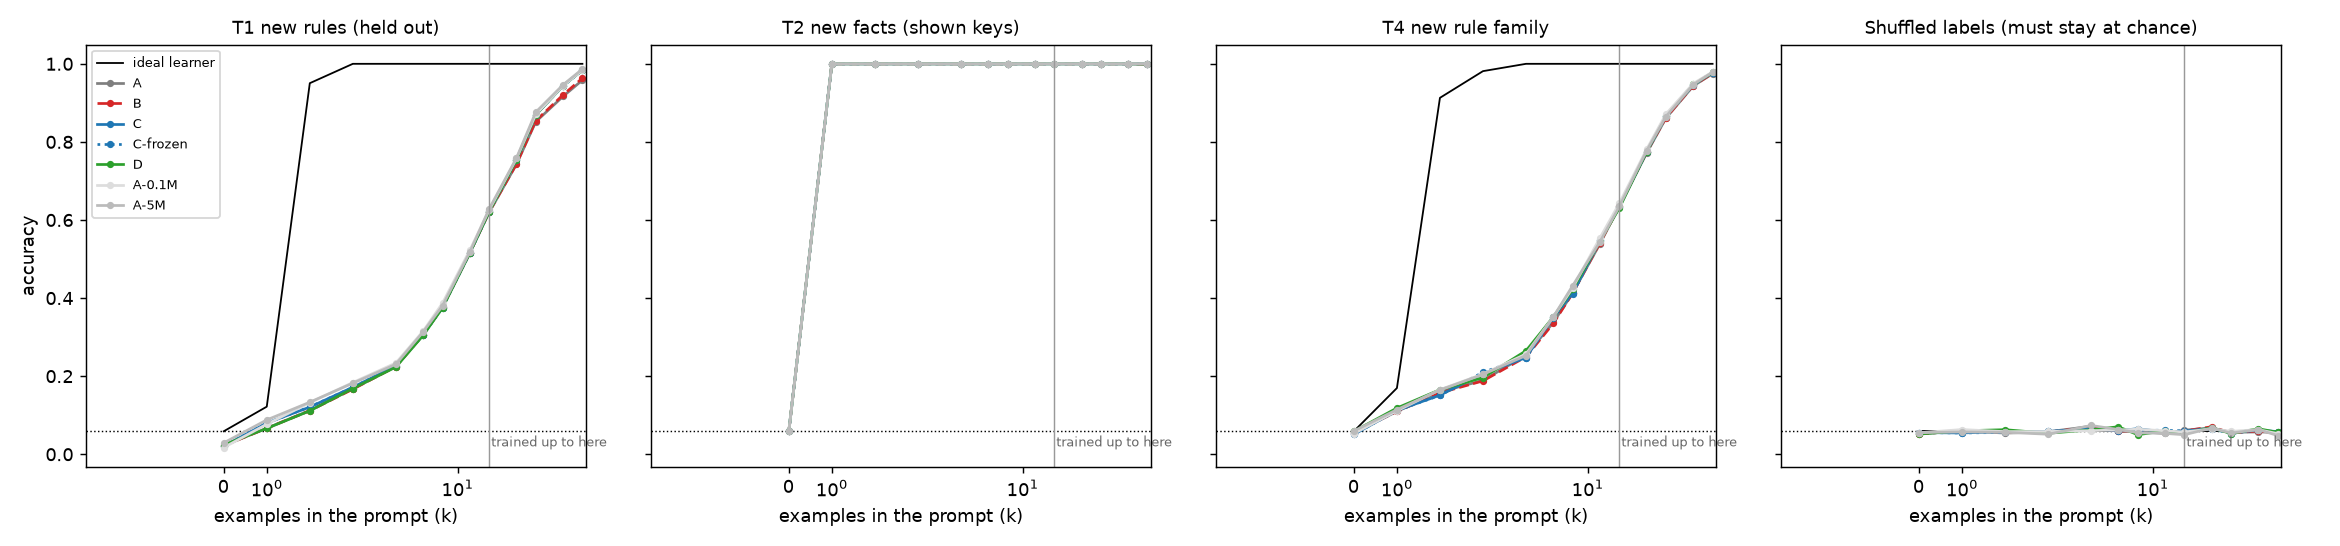
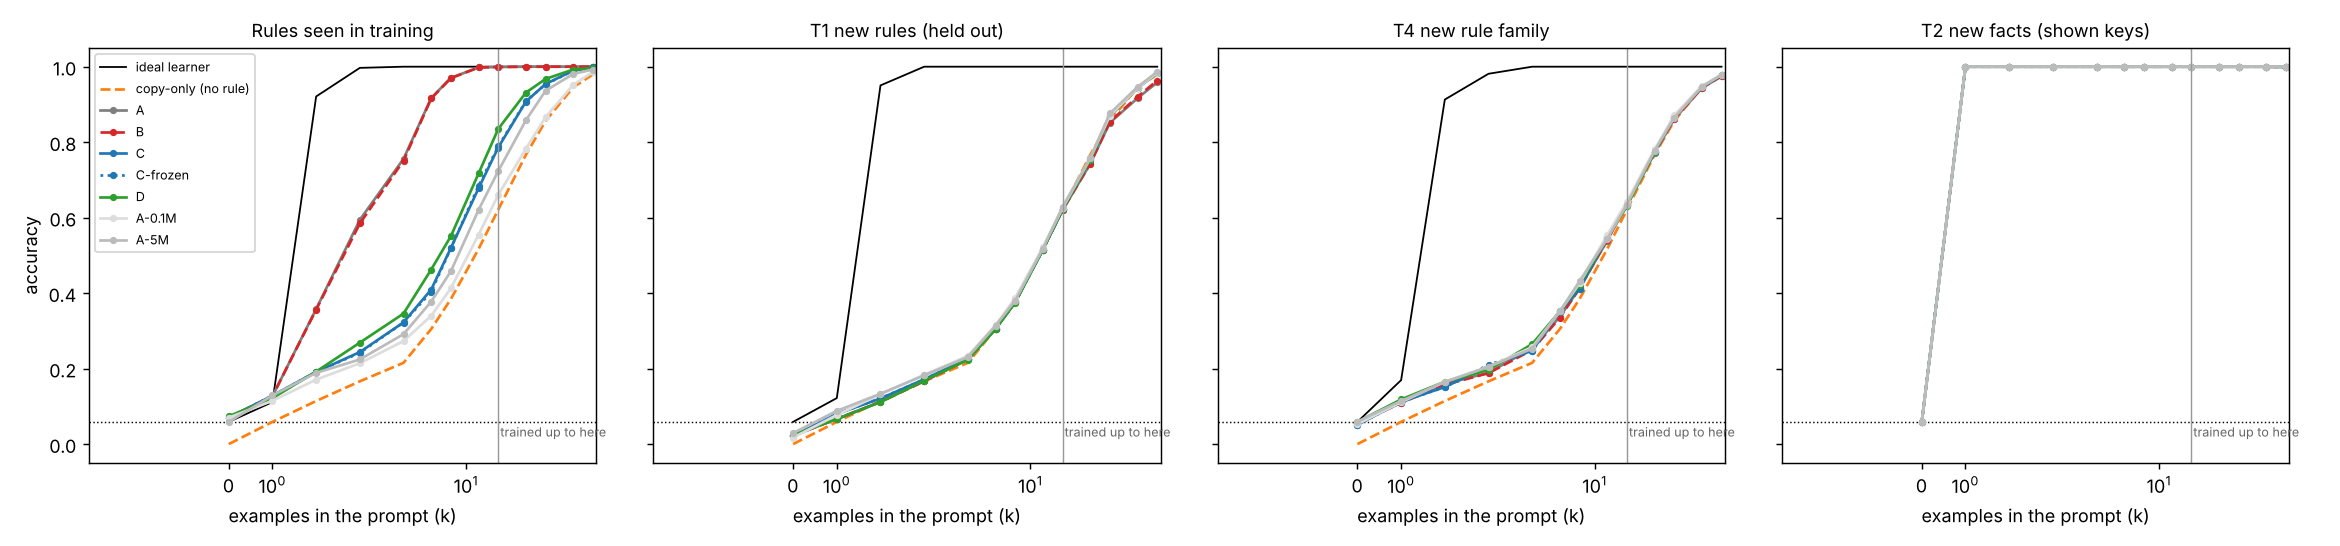
Experiment 02: write up results (FAIL), fix pause timing and Windows peak RAM
Results: models copy shown answers (held-out rules match copy-only
1-(16/17)^k), arm A memorised its 204 training rules, facts recalled at
100% by every arm, test-time training changed nothing. README leads with
goal, verdict and PASS/FAIL table; details in docs/results.md and
docs/tables.md. Plot adds a copy-only line and a training-rules panel.
train.py no longer counts an outside suspension (step > 30 s) as training
time; run.py reports peak working set on Windows.

Claude-Session: https://claude.ai/code/session_0114zeuFYkxAU7mHdfRHPn72

diff --git a/experiments/02-learn-while-prompted/plots.py b/experiments/02-learn-while-prompted/plots.py
@@ -8,8 +8,14 @@ import matplotlib.pyplot as plt  # noqa: E402
 
 STYLE = {"A": ("#7f7f7f", "-"), "B": ("#d62728", "--"), "C": ("#1f77b4", "-"), "C-frozen": ("#1f77b4", ":"),
          "D": ("#2ca02c", "-"), "A-0.1M": ("#dddddd", "-"), "A-5M": ("#bbbbbb", "-")}
-PANELS = [("rules_heldout", "T1 new rules (held out)"), ("facts_shown", "T2 new facts (shown keys)"),
-          ("quad", "T4 new rule family"), ("shuffled", "Shuffled labels (must stay at chance)")]
+PANELS = [("rules_train", "Rules seen in training"), ("rules_heldout", "T1 new rules (held out)"),
+          ("quad", "T4 new rule family"), ("facts_shown", "T2 new facts (shown keys)")]
+P_OUT = 17
+
+
+def copy_only(k):
+    """Accuracy of a learner that only repeats answers it was shown: P(query x was in the prompt)."""
+    return 1 - (1 - 1 / P_OUT) ** k
 
 
 def make_all(m: dict, out_dir):
@@ -18,6 +24,8 @@ def make_all(m: dict, out_dir):
     for ax, (task, title) in zip(axes, PANELS):
         ax.plot(ks, [m["ideal"][task][str(k)] for k in ks], color="black", lw=1, label="ideal learner")
         ax.axhline(1 / 17, color="black", ls=":", lw=0.8)
+        if task != "facts_shown":
+            ax.plot(ks, [copy_only(k) for k in ks], color="#ff7f0e", ls="--", lw=1.5, label="copy-only (no rule)")
         for arm, (col, ls) in STYLE.items():
             if arm in m["acc"] and task in m["acc"][arm]:
                 ax.plot(ks, [m["acc"][arm][task][str(k)] for k in ks], color=col, ls=ls, marker="o", ms=3, label=arm)

diff --git a/experiments/02-learn-while-prompted/run.py b/experiments/02-learn-while-prompted/run.py
@@ -156,10 +156,11 @@ def main():
     v = criteria.verdict(passed, gate)
     runtime = time.time() - t0
     try:
-        import resource  # Linux/macOS only
+        import resource  # Linux/macOS
         peak = resource.getrusage(resource.RUSAGE_SELF).ru_maxrss / 1e6  # KB -> GB
-    except ImportError:  # Windows
-        peak = 0.0
+    except ImportError:  # Windows: psutil reports the peak working set
+        import psutil
+        peak = getattr(psutil.Process().memory_info(), "peak_wset", 0) / 1e9
 
     print("\n" + "-" * 120)
     print(f"{'id':<4}{'criterion':<52}{'value':<58}PASS?")

diff --git a/experiments/02-learn-while-prompted/train.py b/experiments/02-learn-while-prompted/train.py
@@ -146,7 +146,11 @@ def main():
         s.opt.step()
         if dev == "cuda":
             torch.cuda.synchronize()
-        s.used += time.time() - ts
+        dt = time.time() - ts
+        if dt > 30 and s.steps > 10:  # the process was suspended from outside (e.g. by pcguard)
+            paused_s += dt
+            dt = s.used / s.steps  # count the step at its typical length
+        s.used += dt
         s.steps += 1
         if s.steps % 200 == 0 or a.smoke:
             s.model.eval()

diff --git a/experiments/02-learn-while-prompted/README.md b/experiments/02-learn-while-prompted/README.md
@@ -1,23 +1,25 @@
 # 02 · Learn while prompted: a 20 MB model that learns new rules and facts from its prompt
 
 **Goal:** show that a model of 20 MB or less can learn something new from the examples in its prompt, and keep improving when the prompt holds more examples than it ever trained on.
-**Verdict:** _pending the GPU run on Fortran._ [Details](#results) · [Plain-language explainer](EXPLAINER.md) · [Plan](https://claude.ai/artifact/QJmX6kJcpcrz43cT4kMQkh)
+**Verdict:** **FAIL.** The models learned to copy answers they were shown, but none learned a new rule from examples, and test-time training added nothing. ✨ INTRIGUING: a 0.4 MB model recalls new facts perfectly from one example, even in prompts 4× longer than any it trained on. [Details](docs/results.md) · [Full tables](docs/tables.md) · [Explainer](EXPLAINER.md) · [Plan](https://claude.ai/artifact/QJmX6kJcpcrz43cT4kMQkh)
 
-## Pass criteria (pre-registered 2026-11-04)
+| # | Criterion (pre-registered) | Result | PASS/FAIL |
+|---|---|---|---|
+| C1 | ≤ 20 MB per model, ≤ 50 MB total, ≤ 10 min GPU training, ≤ 1 s to learn a prompt | 19 MB, 16 MB, timer read 11.5 min (6.8 of it an outside pause; real ≈ 4.7), 0.014 s | FAIL* |
+| C2 | Learns new rules: ≥ 80% on held-out rules at k=8 | 38.7% (copying alone: 38.4%) | FAIL |
+| C3 | Learns new facts: ≥ 90% recall at k=16, unseen keys at chance | 100%, unseen 6.2% | PASS |
+| C4 | **Headline:** best of C/D at k=64 ≥ 80% of ideal and ≥ 15 pts over frozen A | 99% of ideal but +1.3 pts over A | FAIL |
+| C5 | Learned updates beat naive updates by ≥ 10 pts | +0.2 pts | FAIL |
 
-| # | Criterion | Threshold | Result | PASS/FAIL |
-|---|---|---|---|---|
-| C1 | Fits the budget | each model ≤ 20 MB, all ≤ 50 MB, ≤ 10 min total GPU training (tightened from 15/20 before any run, per Obi's 5-10 minute rule), ≤ 1 s to learn one prompt | | |
-| C2 | Learns new rules (T1) | best arm ≥ 80% on held-out rules at k=8, rising curve (Spearman ≥ 0.9) | | |
-| C3 | Learns new facts (T2) | best arm ≥ 90% recall at k=16, unseen keys within 3 pts of chance | | |
-| C4 | **Keeps improving past its training (headline)** | best of C/D at k=64 ≥ 80% of the ideal learner and ≥ arm A + 15 pts | | |
-| C5 | Updating must be learned | arm C ≥ arm B + 10 pts on held-out rules at k=4 | | |
+Controls passed: shuffled labels and an untrained model stayed at chance, and the base model learned (100% on training rules). \*C1 only failed because an outside pause was counted as training time; the verdict is FAIL either way.
 
-**PASS** = all five pass and the negative controls stay at chance. **FAIL** = C4 fails. **INCONCLUSIVE** = anything else, a negative control learned something, or the base model never learned (arm A below 25% on training rules or shown facts at k=16).
+![Learning curves](results/learning_curves.png)
+
+**What I found that the abstracts don't tell you:** with only 204 training rules, the best-trained model memorised those rules (97% at k=8) instead of learning the algorithm, then fell back to pure copying on new rules. That fits the task-diversity threshold of [Raventós et al. 2023](https://arxiv.org/abs/2306.15063) (not tested directly here: rule diversity wasn't varied). Also, "% of ideal at long prompts" (C4) rewarded copying: always pre-register a copy-only baseline.
 
 ## What is tested
 
-Every prompt is generated by code, so nothing is downloaded and nothing can be memorized.
+Every prompt is generated by code, so nothing is downloaded, and 25% of rules are held out of training.
 
 | Task | In each prompt | Learning means |
 |---|---|---|
@@ -39,10 +41,6 @@ Controls: a brute-force **ideal learner** (ceiling), **shuffled labels** and an 
 
 Test-time training only updates a small per-prompt adapter (rank 8, last two blocks). The shared weights never change, so one user's prompt can't affect another's.
 
-## Results
-
-_Not run yet._ After the GPU run: the PASS/FAIL table above, `results/learning_curves.png`, and full numbers in `results/metrics.json`.
-
 ## Run it
 
 ```bash
@@ -53,11 +51,11 @@ python run.py --quick        # smoke check with tiny UNTRAINED models (~5 s, CPU
 # On an NVIDIA GPU only (training refuses to run on CPU):
 python train.py              # all 5 arms in ONE process taking turns on the GPU, 5 min total
 python run.py                # evaluate every arm, print the PASS/FAIL table, write results/
-python demo.py               # watch arm C learn a rule it has never seen, one example at a time
+python demo.py --arm A --facts   # watch arm A learn new facts, one example at a time
 python demo.py --teach "1:5 2:8 3:11"   # teach it your own examples
 ```
 
-Checkpoints are saved in fp16 (about 16 MB for all five) to `ckpt/`, which git ignores; they will be attached to a GitHub release.
+Checkpoints are saved in fp16 (about 16 MB for all five) to `ckpt/`, which git ignores; the `exp02-checkpoints-v1` GitHub release holds them once published.
 
 ## Files
 
@@ -74,7 +72,7 @@ Checkpoints are saved in fp16 (about 16 MB for all five) to `ckpt/`, which git i
 
 ## Background
 
-A 4-minute probe before the plan (a 104K-param model, on CPU before the GPU-only rule) learned unseen rules from its prompt (4% → 44%, chance 5.9%), and plain test-time SGD made it worse (35% → 24% at k=6). C5 tests whether learning to be updated fixes that. Related work: [Garg et al. 2022](https://arxiv.org/abs/2208.01066), [Akyürek et al. 2024](https://arxiv.org/abs/2411.07279), [Sun et al. 2024](https://arxiv.org/abs/2407.04620), [Titans](https://arxiv.org/abs/2501.00663), [MAML](https://arxiv.org/abs/1703.03400).
+A 4-minute probe before the plan (a 104K-param model, on CPU before the GPU-only rule) scored 4% → 44% on unseen rules (chance 5.9%; copying alone would give 38%, so it too was mostly copying), and plain test-time SGD made it worse (35% → 24% at k=6). C5 tests whether learning to be updated fixes that. Related work: [Garg et al. 2022](https://arxiv.org/abs/2208.01066), [Akyürek et al. 2024](https://arxiv.org/abs/2411.07279), [Sun et al. 2024](https://arxiv.org/abs/2407.04620), [Titans](https://arxiv.org/abs/2501.00663), [MAML](https://arxiv.org/abs/1703.03400).
 
 ## Limitations
 

diff --git a/experiments/02-learn-while-prompted/docs/tables.md b/experiments/02-learn-while-prompted/docs/tables.md
@@ -1,0 +1,81 @@
+# Experiment 02: full accuracy tables (%)
+
+From `results/metrics.json` (300 prompts × 8 questions per cell, evaluated on the RTX 4080 SUPER). "copy-only" is the score of a learner that only repeats answers it was shown, 1 − (16/17)^k, computed after the run as an explanation, not a pre-registered control.
+
+## Rules seen in training
+
+| arm | k=0 | k=1 | k=2 | k=3 | k=4 | k=6 | k=8 | k=12 | k=16 | k=24 | k=32 | k=48 | k=64 |
+|---|---|---|---|---|---|---|---|---|---|---|---|---|---|
+| A | 7 | 13 | 36 | 59 | 76 | 92 | 97 | 100 | 100 | 100 | 100 | 100 | 100 |
+| B | 7 | 13 | 36 | 58 | 75 | 92 | 97 | 100 | 100 | 100 | 100 | 100 | 100 |
+| C | 7 | 13 | 19 | 24 | 32 | 41 | 52 | 68 | 79 | 91 | 95 | 99 | 100 |
+| C-frozen | 7 | 13 | 19 | 24 | 32 | 40 | 52 | 68 | 79 | 91 | 95 | 99 | 100 |
+| D | 7 | 12 | 19 | 27 | 35 | 46 | 55 | 72 | 84 | 93 | 97 | 99 | 100 |
+| A-0.1M | 7 | 11 | 17 | 21 | 27 | 34 | 41 | 55 | 66 | 78 | 87 | 95 | 99 |
+| A-5M | 6 | 13 | 19 | 22 | 29 | 38 | 46 | 62 | 72 | 86 | 94 | 98 | 99 |
+| ideal | 6 | 11 | 92 | 100 | 100 | 100 | 100 | 100 | 100 | 100 | 100 | 100 | 100 |
+| copy-only | 0 | 6 | 11 | 17 | 22 | 30 | 38 | 52 | 62 | 77 | 86 | 95 | 98 |
+
+## T1: held-out rules (never trained on)
+
+| arm | k=0 | k=1 | k=2 | k=3 | k=4 | k=6 | k=8 | k=12 | k=16 | k=24 | k=32 | k=48 | k=64 |
+|---|---|---|---|---|---|---|---|---|---|---|---|---|---|
+| A | 2 | 7 | 11 | 17 | 22 | 31 | 38 | 52 | 62 | 74 | 85 | 92 | 96 |
+| B | 2 | 7 | 11 | 17 | 22 | 31 | 38 | 52 | 62 | 74 | 85 | 92 | 96 |
+| C | 2 | 8 | 12 | 17 | 23 | 31 | 38 | 52 | 62 | 75 | 87 | 94 | 98 |
+| C-frozen | 2 | 8 | 12 | 17 | 23 | 31 | 38 | 52 | 62 | 75 | 87 | 94 | 98 |
+| D | 2 | 7 | 11 | 17 | 22 | 30 | 38 | 52 | 62 | 75 | 87 | 94 | 98 |
+| A-0.1M | 2 | 8 | 13 | 18 | 23 | 32 | 39 | 52 | 63 | 76 | 87 | 94 | 98 |
+| A-5M | 3 | 9 | 13 | 18 | 23 | 31 | 38 | 52 | 63 | 76 | 88 | 95 | 99 |
+| ideal | 6 | 12 | 95 | 100 | 100 | 100 | 100 | 100 | 100 | 100 | 100 | 100 | 100 |
+| copy-only | 0 | 6 | 11 | 17 | 22 | 30 | 38 | 52 | 62 | 77 | 86 | 95 | 98 |
+
+## T4: new rule family (y = a·x² + b mod 17)
+
+| arm | k=0 | k=1 | k=2 | k=3 | k=4 | k=6 | k=8 | k=12 | k=16 | k=24 | k=32 | k=48 | k=64 |
+|---|---|---|---|---|---|---|---|---|---|---|---|---|---|
+| A | 6 | 11 | 16 | 19 | 25 | 34 | 41 | 54 | 64 | 77 | 86 | 94 | 97 |
+| B | 6 | 11 | 16 | 19 | 25 | 34 | 41 | 54 | 63 | 77 | 86 | 94 | 98 |
+| C | 5 | 11 | 15 | 21 | 25 | 35 | 41 | 55 | 63 | 77 | 87 | 95 | 98 |
+| C-frozen | 5 | 11 | 15 | 21 | 25 | 35 | 41 | 55 | 63 | 78 | 87 | 95 | 98 |
+| D | 6 | 12 | 17 | 20 | 26 | 35 | 42 | 55 | 63 | 78 | 87 | 95 | 98 |
+| A-0.1M | 5 | 11 | 17 | 21 | 26 | 35 | 43 | 55 | 64 | 78 | 87 | 95 | 98 |
+| A-5M | 6 | 11 | 16 | 20 | 25 | 35 | 43 | 54 | 63 | 78 | 86 | 95 | 98 |
+| ideal | 6 | 17 | 91 | 98 | 100 | 100 | 100 | 100 | 100 | 100 | 100 | 100 | 100 |
+| copy-only | 0 | 6 | 11 | 17 | 22 | 30 | 38 | 52 | 62 | 77 | 86 | 95 | 98 |
+
+## T2: new facts, shown keys
+
+| arm | k=0 | k=1 | k=2 | k=3 | k=4 | k=6 | k=8 | k=12 | k=16 | k=24 | k=32 | k=48 | k=64 |
+|---|---|---|---|---|---|---|---|---|---|---|---|---|---|
+| A | 6 | 100 | 100 | 100 | 100 | 100 | 100 | 100 | 100 | 100 | 100 | 100 | 100 |
+| B | 6 | 100 | 100 | 100 | 100 | 100 | 100 | 100 | 100 | 100 | 100 | 100 | 100 |
+| C | 6 | 100 | 100 | 100 | 100 | 100 | 100 | 100 | 100 | 100 | 100 | 100 | 100 |
+| C-frozen | 6 | 100 | 100 | 100 | 100 | 100 | 100 | 100 | 100 | 100 | 100 | 100 | 100 |
+| D | 6 | 100 | 100 | 100 | 100 | 100 | 100 | 100 | 100 | 100 | 100 | 100 | 100 |
+| A-0.1M | 6 | 100 | 100 | 100 | 100 | 100 | 100 | 100 | 100 | 100 | 100 | 100 | 100 |
+| A-5M | 6 | 100 | 100 | 100 | 100 | 100 | 100 | 100 | 100 | 100 | 100 | 100 | 100 |
+
+## T2: new facts, keys never shown (must stay at chance, 5.9%)
+
+| arm | k=0 | k=1 | k=2 | k=3 | k=4 | k=6 | k=8 | k=12 | k=16 | k=24 | k=32 | k=48 | k=64 |
+|---|---|---|---|---|---|---|---|---|---|---|---|---|---|
+| A | 6 | 7 | 7 | 6 | 5 | 6 | 8 | 5 | 6 | 7 | 6 | 5 | 6 |
+| B | 6 | 7 | 6 | 6 | 5 | 6 | 8 | 5 | 6 | 7 | 6 | 5 | 6 |
+| C | 5 | 5 | 6 | 5 | 6 | 7 | 5 | 6 | 6 | 5 | 7 | 7 | 4 |
+| C-frozen | 5 | 5 | 6 | 6 | 6 | 6 | 5 | 7 | 6 | 5 | 7 | 8 | 4 |
+| D | 6 | 7 | 5 | 6 | 6 | 5 | 7 | 6 | 5 | 6 | 7 | 5 | 6 |
+| A-0.1M | 6 | 6 | 6 | 6 | 5 | 4 | 7 | 5 | 5 | 6 | 5 | 4 | 5 |
+| A-5M | 6 | 7 | 5 | 6 | 6 | 7 | 6 | 7 | 6 | 5 | 7 | 7 | 5 |
+
+## Shuffled labels (negative control, must stay at chance)
+
+| arm | k=0 | k=1 | k=2 | k=3 | k=4 | k=6 | k=8 | k=12 | k=16 | k=24 | k=32 | k=48 | k=64 |
+|---|---|---|---|---|---|---|---|---|---|---|---|---|---|
+| A | 5 | 6 | 5 | 6 | 7 | 6 | 6 | 5 | 6 | 7 | 6 | 6 | 6 |
+| B | 5 | 6 | 6 | 6 | 7 | 6 | 6 | 6 | 6 | 7 | 5 | 6 | 5 |
+| C | 6 | 5 | 6 | 6 | 6 | 6 | 7 | 6 | 6 | 7 | 6 | 6 | 6 |
+| C-frozen | 6 | 5 | 6 | 6 | 6 | 6 | 6 | 6 | 6 | 7 | 5 | 6 | 6 |
+| D | 5 | 6 | 6 | 5 | 6 | 7 | 5 | 6 | 5 | 7 | 5 | 7 | 6 |
+| A-0.1M | 6 | 6 | 6 | 6 | 6 | 6 | 6 | 6 | 6 | 6 | 6 | 6 | 5 |
+| A-5M | 6 | 6 | 6 | 5 | 7 | 6 | 6 | 5 | 5 | 7 | 5 | 6 | 5 |

diff --git a/experiments/02-learn-while-prompted/docs/results.md b/experiments/02-learn-while-prompted/docs/results.md
@@ -1,0 +1,47 @@
+# Experiment 02: results in detail
+
+Run on 2026-11-05 on Fortran (RTX 4080 SUPER, 16 GB), via pcguard. Code at a2eeb7b, results commit f2d4399. Full tables: [tables.md](tables.md).
+
+## Verdict: FAIL (core criterion C4 failed), with valid controls
+
+| # | Criterion | Result | Threshold | |
+|---|---|---|---|---|
+| C1 | Fits the budget | 19.0 MB largest model, 15.8 MB all checkpoints, 0.014 s to learn one prompt; timer read 11.5 min total | ≤ 20 MB, ≤ 50 MB, ≤ 1 s, ≤ 10 min | FAIL* |
+| C2 | Learns new rules | best arm 38.7% at k=8 (A-0.1M), Spearman 1.00 | ≥ 80% | FAIL |
+| C3 | Learns new facts | 100% recall at k=16, unseen keys 6.2% | ≥ 90%, unseen 5.9% ± 3 | PASS |
+| C4 | Keeps improving past training | arm C 99% of ideal at k=64, but only +1.3 pts over frozen A | ≥ 80% of ideal and ≥ +15 pts | FAIL |
+| C5 | Updating must be learned | C 22.6% vs B 22.5% at k=4 (+0.2) | ≥ +10 pts | FAIL |
+
+Validity gate OK: shuffled labels and the untrained model stayed at chance (5-7%), and the base model learned (arm A: 100% on training rules and on shown facts at k=16).
+
+\*C1: pcguard suspended the training process for 6.8 minutes (07:34:49 to 07:41:37) while one of Obi's render jobs needed RAM. train.py couldn't see the suspension and counted it as training time, almost all inside arm A-5M. Real GPU compute was about 4.7 minutes, which would pass. The verdict is FAIL either way. train.py now detects outside suspensions (a step longer than 30 s) and doesn't count them.
+
+## What happened
+
+**1. Every model learned to copy, none learned the rule.** On held-out rules, every arm's accuracy matches the "copy-only" curve: the chance that the question's input already appeared in the prompt, 1 − (16/17)^k. At k=8 that is 38.4%; the arms scored 37.5-38.7%. An ideal learner needs only 2 examples to pin down y = (a·x + b) mod 17 and scores 95% at k=2. The same holds for the new rule family (T4).
+
+**2. The fully trained model memorised its 204 training rules instead.** Arm A, the one that got the most steps (4,508), scores 97% at k=8 on rules it saw in training, far above copying (38%). It identifies which of the 204 memorised rules the prompt matches. On the 68 held-out rules that falls apart into pure copying. This is the "task diversity" effect of Raventós et al. 2023: with too few distinct training tasks, a transformer learns a lookup over those tasks rather than the general algorithm. 204 rules is below that threshold.
+
+**3. Copying generalises perfectly and cheaply.** New facts are recalled at 100% after one example, by every arm including the 0.1M-param (0.4 MB) model, and unseen keys stay at chance. It keeps working at k=64, four times the longest prompt seen in training, because the models have no position embeddings (each example is one token in a set).
+
+**4. Test-time training changed nothing.** B matches A, and C matches C-frozen, to within 0.2 points at every k. The adapter updates are too small to move the predictions. Meta-training (C) did not learn a useful update in 1,375 steps. The naive learning rate picked on training data (0.1) barely mattered (75.3-75.8% across the grid).
+
+**5. C4 rewarded copying.** "99% of ideal at k=64" sounds strong, but copying alone gets 98% at k=64. The criterion didn't separate rule learning from recall. Future experiments in this repo will include the copy-only baseline as a pre-registered control.
+
+## Training
+
+| Arm | Params | Steps | Batch | GPU seconds |
+|---|---|---|---|---|
+| A | 1.0M | 4,508 | 1024 | 75 |
+| C | 1.0M | 1,375 | 512 | 105 |
+| D | 1.0M | 485 | 1024 | 75 |
+| A-0.1M | 0.1M | 1,956 | 1024 | 15 |
+| A-5M | 4.8M | 427 | 1024 | ~14 real (422 counted) |
+
+Peak GPU memory 5.3 GB. Peak system RAM 92% (Obi's render jobs plus ours). The GPU was shared with a Shorts job (about 12% of compute).
+
+## What I'd change next
+
+- **More rule diversity**: a larger modulus or several rule families mixed, so there are thousands of distinct training rules. That is the known way past memorisation.
+- **Longer training for C and D**: they got 485-1,375 steps against A's 4,508, so the comparison between update rules is weak.
+- **Copy-only control** pre-registered for any rule task.

diff --git a/experiments/02-learn-while-prompted/EXPLAINER.md b/experiments/02-learn-while-prompted/EXPLAINER.md
@@ -28,6 +28,14 @@ In an early 4-minute test, plain cramming (B) made the model **worse**. The big 
 
 Training only ever showed the model up to 16 examples. At test time we give it up to **64**. If it keeps getting better past 16, it's genuinely learning from new data, not just repeating a pattern it practiced. That's criterion C4, and it decides PASS or FAIL.
 
+## What actually happened (verdict: FAIL)
+
+- **Facts: yes.** Every model, even a 0.4 MB one, remembered new facts perfectly after seeing them once, and correctly "didn't know" facts it wasn't told. That kept working with 4× more facts than it ever practised on.
+- **Rules: no.** Instead of working out the secret rule, the models only repeated answers they had already been shown. Think of a student who memorises the answers in the worked examples but can't solve a new problem. On the rules it saw during training, the best model was excellent (97% after 8 examples), because it had memorised all 204 of them. Given a brand new rule, it could only copy.
+- **Cramming didn't help.** Retraining on the prompt's examples, plain or practised, changed almost nothing.
+
+The likely fix is more variety: thousands of different training rules instead of 204, so memorising them all stops being easier than learning the method. Research on in-context learning predicts exactly this switch.
+
 ## Why it matters
 
 - **Personal AI on your phone**: an app that learns your shortcuts, names or habits on the device, with nothing sent to the cloud.
@@ -46,4 +54,5 @@ Training only ever showed the model up to 16 examples. At test time we give it u
 - [Learning to (learn at test time)](https://arxiv.org/abs/2407.04620) (Sun et al., 2024): layers whose memory is a tiny model trained as it reads.
 - [Titans: learning to memorize at test time](https://arxiv.org/abs/2501.00663) (Behrouz et al., 2025): a memory that decides what's surprising enough to store.
 - [The surprising effectiveness of test-time training for abstract reasoning](https://arxiv.org/abs/2411.07279) (Akyürek et al., 2024): cramming on puzzle examples works when done carefully.
+- [Pretraining task diversity and the emergence of non-Bayesian in-context learning](https://arxiv.org/abs/2306.15063) (Raventós et al., 2023): why too few training tasks leads to memorising instead of learning the method.
 - [MAML](https://arxiv.org/abs/1703.03400) (Finn et al., 2017): the classic "learning to learn" method that arm C uses.

diff --git a/README.md b/README.md
@@ -6,7 +6,7 @@ Tiny models (≤ 20 MB) that **learn while they are being used**: from the promp
 
 | # | Experiment | Verdict | Criteria | One-line finding |
 |---|---|---|---|---|
-| 02 | [Learn while prompted](experiments/02-learn-while-prompted): a 20 MB model learns new rules and facts from its prompt, and keeps improving past what it trained on | _pending GPU run_ | – | – |
+| 02 | [Learn while prompted](experiments/02-learn-while-prompted): can a ≤ 20 MB model learn new rules and facts from its prompt? | **FAIL** ✨ | 1 of 5 pass | Learns new facts perfectly from one example (even at 0.4 MB) but only copies on new rules; test-time training added nothing. [Details](experiments/02-learn-while-prompted/docs/results.md) |
 | 03 | [Weight-order memory](experiments/03-weight-order-memory): adapt by *reordering* weights, not rewriting them | _pending GPU run_ | – | – |
 
 Every experiment pre-registers PASS / FAIL criteria and negative controls before any run, and prints a verdict table (PASS / FAIL / INCONCLUSIVE, plus an optional ✨ INTRIGUING tag that never changes the verdict).
